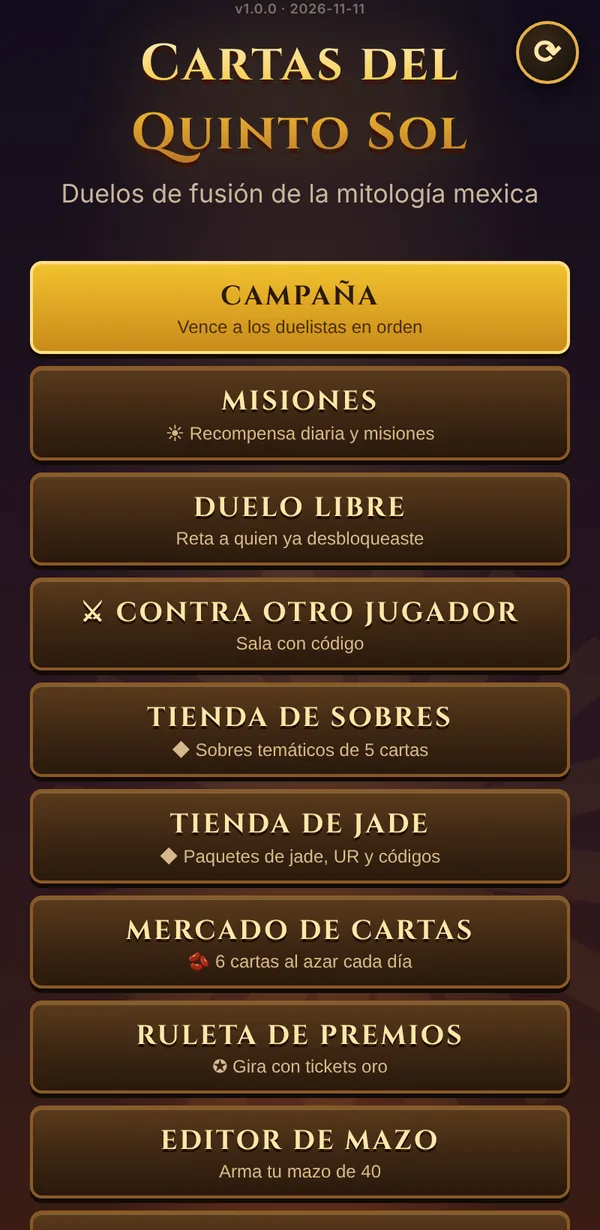
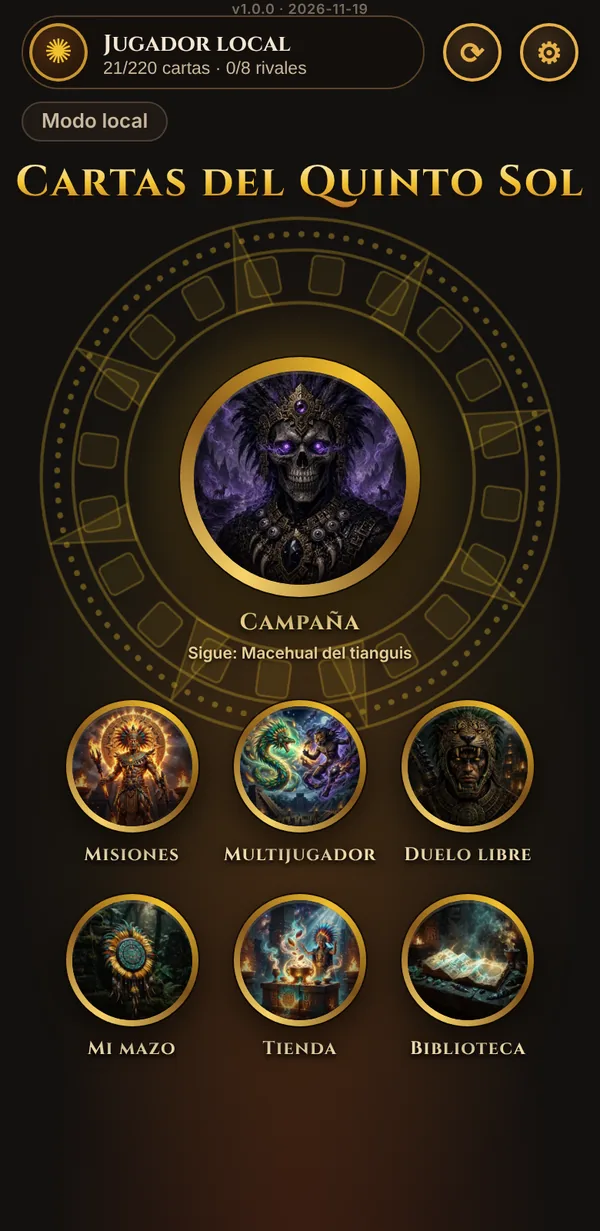
Cartas del Quinto Sol: menú y tienda nuevos; dos notas nuevas en la bitácora
- Cartas del Quinto Sol: captura del menú nuevo (rueda del Quinto Sol) y de
  Opciones, probabilidades de los sobres y garantía de UR en 10 sobres, nuevo
  botín de los duelistas (sin UR, Xólotl como firma de Mictlantecuhtli), música
  de jefe y preguntas sobre la descarga de recursos y guardar la cuenta.
- Bitácora: «Cartas del Quinto Sol estrena menú, tienda con pestañas y descarga
  de recursos» y «Voces de caricatura en Bocón Estudio con texto a voz y la voz
  de Lito», con capturas reales.
- Nota de momentos meme: 25 efectos y 26 controles, guardar efectos es de Pro y
  Bocón ya está abierto.

Claude-Session: https://claude.ai/code/session_01X7LeBtCdBCHYMhX7Pxe9SS

diff --git a/contenido/bitacora/voces-de-caricatura-en-bocon-estudio.md b/contenido/bitacora/voces-de-caricatura-en-bocon-estudio.md
@@ -1,0 +1,93 @@
+---
+titulo: Voces de caricatura en Bocón Estudio con texto a voz y la voz de Lito
+descripcion: Cómo hacer que tus personajes hablen sin grabar, con el texto a voz de Bocón Estudio, y cómo darles voz de caricatura sin que suenen a ardilla, separando el tono del timbre.
+fecha: 2026-11-18
+proyecto: bocon-estudio
+imagen: /img/bocon-estudio/texto-a-voz.webp
+alt: Ventana de texto a voz de Bocón Estudio con el texto «¡Hola! Soy Lito. ¿Ya viste mi video nuevo?», la voz Hombre · México y el efecto Lito (caricatura)
+pie: En «Texto a voz» escribes lo que dice el personaje, eliges la voz y el efecto, y Bocón lo pone en la línea de tiempo con su lip-sync.
+---
+
+Hasta hace poco, para que un personaje hablara en Bocón Estudio había que grabar la voz o subir un audio. Desde la versión 24 hay otra forma: **escribes lo que dice y Bocón genera la voz**. Y desde la versión 23, los efectos de voz pueden hacer voces de caricatura que no suenan a ardilla. En esta guía te contamos cómo usar las dos cosas y cómo combinarlas.
+
+## Texto a voz: tu personaje habla sin micrófono
+
+Abre **Agregar → Voz desde texto…**, o toca «Escribir lo que dice (texto a voz)» en la sección «Voz y lip-sync» del personaje. En la ventana:
+
+1. **Escribe lo que va a decir.**
+2. **Elige el personaje** que lo dice.
+3. **Elige la voz.** Hay seis: Hombre · México, Hombre 2 · México, Mujer · España, Hombre · España, Hombre 3 · España y una voz **Ligera · España** que pesa menos.
+4. **Elige el efecto de voz**, si quieres que no suene a voz de computadora. Más abajo explicamos el de Lito.
+5. **Ajusta la velocidad**, de 70 % a 150 %.
+6. Toca **Escuchar** para oírla y, si te gusta, **Agregar a la línea de tiempo**.
+
+La voz entra como cualquier audio: la boca se mueve sola con el lip-sync y lleva el efecto que elegiste.
+
+### Se genera en tu aparato
+
+La voz no se manda a ningún servidor: se genera ahí mismo, en tu computadora o tu celular. La primera vez se descarga la voz (unos 60 MB) y el motor que la produce (unos 30 MB). Después se quedan guardados y **ya no necesitas internet**, ni siquiera si actualizas la app. Si tu conexión o tu celular son lentos, empieza con la voz Ligera, que pesa 28 MB.
+
+### Cómo escribir para que suene natural
+
+La misma ventana te da dos pistas que hacen mucha diferencia:
+
+- **Usa los signos de apertura.** Con «¿» y «¡» la voz pregunta o se emociona. No es lo mismo «ya viste mi video» que «¿Ya viste mi video?».
+- **Usa renglones y puntos para las pausas.** Cada punto o cada renglón nuevo hace una pausa. Si una frase sale atropellada, pártela en dos.
+
+Otros consejos:
+
+- **Escribe los números con letra** si los lee raro, por ejemplo «veinte» en vez de «20».
+- **Una frase por bloque.** Si cada frase es un bloque aparte, luego puedes moverlas en la línea de tiempo para dejar silencios o meter la respuesta de otro personaje.
+- **Dale a cada personaje su voz.** Con dos personajes, uno puede usar la voz de México y el otro la de España, cada uno con su efecto.
+
+En el plan gratis cada texto puede tener hasta 200 letras, que alcanzan para dos o tres frases. Con Bocón Pro no hay límite.
+
+## Tono y timbre: por qué las voces agudas suenan a ardilla
+
+Cuando subes el tono de una grabación de la forma clásica, no solo sube la nota: también se encoge el «tamaño» de la voz. Por eso suena a ardilla o a disco acelerado.
+
+Bocón ahora separa las dos cosas, y así lo explica en la ventana de Efecto de voz:
+
+- **Tono** es qué tan aguda suena la voz, la nota.
+- **Timbre** es qué tan chica suena la voz, como si saliera de una garganta más pequeña o más grande.
+
+Con los dos por separado puedes hacer una voz aguda que todavía suena a persona, o una voz de personaje pequeño que no es más aguda. El tono ahora llega a 24 semitonos hacia arriba o hacia abajo, que son dos octavas.
+
+![Ventana de Efecto de voz de Bocón con el efecto Lito (caricatura) elegido: tono automático en 300 Hz, timbre en automático y entonación en 115 %](/img/bocon-estudio/voz-lito.webp)
+
+## La voz de Lito
+
+El efecto **Lito (caricatura)** está hecho a partir de la voz de Lito el ajolote. Usa tres perillas nuevas:
+
+- **Tono automático en 300 Hz.** En vez de subir la voz un número fijo de notas, la lleva a esa altura, así que funciona igual con voz de hombre, de mujer o de niño.
+- **Timbre automático**, que acomoda el tamaño de la voz según cuánto subió el tono.
+- **Entonación al 115 %**, un poco más expresiva que la original, como en las caricaturas.
+
+Para probarlo, selecciona tu personaje, abre **Agregar → Efecto de voz…** y toca «Lito (caricatura)». Con **Escuchar** oyes los primeros 6 segundos de su voz con el efecto puesto, y con **Original** la comparas sin efecto. El lip-sync no cambia con el efecto.
+
+## Ideas para empezar
+
+Estas combinaciones son buenos puntos de partida. Escúchalas y ajústalas a tu gusto:
+
+| Personaje | Prueba con |
+|---|---|
+| Mascota o personaje tierno | Lito (caricatura) |
+| Niño o personaje pequeño | Timbre más arriba, tono casi igual |
+| Villano | Tono y timbre más abajo, con un poco de voz doble (grave) |
+| Narrador | Anunciador de radio, o Megáfono para avisos |
+| Llamada por teléfono | Radio o teléfono |
+| Fantasma o escena de miedo | Fantasma, Eco o Cueva |
+| Robot o videojuego | Robot o Videojuego (8 bits) |
+
+El editor tiene 26 controles. Si armas una voz que te guste, con Bocón Pro puedes guardarla en tus efectos con su nombre y usarla en cualquier proyecto.
+
+## Un ejemplo de principio a fin
+
+1. Pon dos personajes en la escena, por ejemplo el ajolote y el gato.
+2. En **Texto a voz**, escribe la primera frase del ajolote con la voz Hombre · México y el efecto Lito (caricatura).
+3. Escribe la respuesta del gato con otra voz, como Mujer · España, y un efecto distinto.
+4. Mueve los bloques en la línea de tiempo para que cada uno conteste al otro.
+5. Agrega gestos y, en el remate, un momento meme con la tecla **E**. Los explicamos en la nota sobre [momentos meme y efectos de voz](/bitacora/momentos-meme-y-efectos-de-voz-en-bocon-estudio).
+6. Exporta en formato 9:16 para TikTok o Reels.
+
+Si todavía no tienes Bocón instalado, sigue la [guía para instalarlo en PC, Android o iPhone](/bitacora/instala-bocon-estudio-en-pc-android-y-iphone).

diff --git a/contenido/bitacora/cartas-del-quinto-sol-estrena-menu-y-tienda.md b/contenido/bitacora/cartas-del-quinto-sol-estrena-menu-y-tienda.md
@@ -1,0 +1,74 @@
+---
+titulo: Cartas del Quinto Sol estrena menú, tienda con pestañas y descarga de recursos
+descripcion: Lo nuevo en Cartas del Quinto Sol. La rueda del Quinto Sol, la tienda con sobres, mercado, ruleta y jade en un solo lugar, la descarga de recursos para jugar con mala señal, la música de jefe y el nuevo botín de los duelistas.
+fecha: 2026-11-18
+proyecto: cartas-del-quinto-sol
+imagen: /img/cartas-del-quinto-sol/novedades.webp
+alt: El menú nuevo de Cartas del Quinto Sol con la rueda del Quinto Sol y la pantalla de Opciones con la sección Descargas
+pie: A la izquierda, el menú nuevo con la Campaña al centro. A la derecha, Opciones, con el sonido y la descarga de recursos.
+---
+
+Cartas del Quinto Sol se ve distinto desde que lo abres. La actualización de noviembre cambió el menú, juntó todas las tiendas en una, agregó una pantalla de opciones y cambió lo que sueltan los duelistas. Aquí te contamos qué cambió y cómo aprovecharlo.
+
+## La rueda del Quinto Sol
+
+El menú ahora es una rueda inspirada en el calendario. Al centro está la **Campaña**, con el retrato del próximo rival y su nombre («Sigue: Macehual del tianguis»), así que con un toque continúas donde te quedaste. Abajo hay seis medallones:
+
+- **Misiones**, con las del día y las de la semana.
+- **Multijugador**, para retar a alguien con un código de sala.
+- **Duelo libre**, contra los duelistas que ya venciste.
+- **Mi mazo**, para armar y ordenar tu mazo de 40 cartas.
+- **Tienda**, con todo lo que se compra.
+- **Biblioteca**, con tu colección.
+
+Arriba queda una barra con tu perfil, cuántas cartas tienes de las 220, cuántos de los 8 rivales llevas vencidos, el botón ⟳ para buscar actualizaciones y el ⚙ de Opciones. Si tocas tu perfil, se abre tu récord de victorias y derrotas, tu colección, y ahí puedes cambiar tu nombre.
+
+Los retratos de los duelistas ahora pesan mucho menos, de alrededor de 1 MB a unos 70 KB cada uno, así que el menú abre más rápido con datos móviles.
+
+## Una sola tienda, con pestañas
+
+Antes los sobres, el mercado, la ruleta y la tienda de jade estaban en pantallas separadas. Ahora están juntos en la **Tienda**, cada uno en su pestaña: **Sobres**, **Mercado**, **Ruleta** y **Jade**.
+
+En la pestaña de sobres eliges uno de los seis, de 150 de jade cada uno, y abajo ves todo lo que puede salir, ordenado por rareza, con las cartas que ya tienes y las que te faltan. También ves la probabilidad de cada rareza **por carta**:
+
+| Rareza | Por carta |
+|---|---|
+| Normal (N) | 60 % |
+| Rara (R) | 28 % |
+| Súper rara (SR) | 10 % |
+| Ultra rara (UR) | 2 % |
+
+Un sobre trae 5 cartas, así que la probabilidad de que un sobre traiga al menos una ultra rara es de cerca de 10 %. Para que nadie se quede sin ninguna, hay una **garantía**: si abres 10 sobres seguidos sin ultra rara, el décimo trae una segura. Una barra te dice cuántos sobres faltan.
+
+**Consejo:** si buscas una ultra rara en particular, fíjate en qué sobre viene antes de abrirlo. Las ultra raras del Sobre del Quinto Sol, por ejemplo, son seis: Huitzilopochtli, Tonatiuh, Tezcatlipoca, Xiuhtecuhtli, Coyolxauhqui y Xipe Tótec.
+
+## Opciones y descarga de recursos
+
+El engrane ⚙ abre la nueva pantalla de **Opciones**:
+
+- **Sonido:** enciende o apaga el sonido del juego y ajusta por separado el volumen de los efectos y el de la música.
+- **Descargas:** guarda en tu teléfono el arte de las 220 cartas, los retratos de los duelistas, los sonidos y la música, unos **22 MB** en total.
+- **Juego:** vuelve a ver el tutorial en tu siguiente duelo de campaña, instala el juego como app y busca actualizaciones.
+- **Cuenta:** si juegas como invitado, aquí guardas tu cuenta con tu correo.
+
+La descarga es lo más útil si juegas con datos o con mala señal. Sin ella, el arte de cada carta se baja cuando la ves por primera vez, y con una conexión lenta las cartas pueden quedarse en blanco un rato. Con los recursos descargados el juego abre rápido y todo se ve desde el principio.
+
+Se baja una sola vez: cuando salen cartas nuevas, solo baja esas. Si la detienes a la mitad, lo que ya se bajó se queda guardado. Y si un día necesitas espacio, el botón «Borrar descargas» lo quita; el juego lo volverá a bajar poco a poco mientras juegas. Si tu plan de datos es limitado, haz la descarga con Wi-Fi.
+
+## No pierdas tus cartas
+
+Si empezaste sin cuenta, tu progreso se guarda solo en ese navegador. Si cambias de teléfono o borras los datos del navegador, lo pierdes. Para evitarlo, entra a **Opciones → Cuenta** y toca **Guardar mi cuenta** con tu correo. Así puedes entrar con tus cartas desde otro aparato.
+
+## Música de jefe y un botín más parejo
+
+Los dos jefes de la campaña, **Mictlantecuhtli**, al final del capítulo 1, y **Tlamacazqui**, al final de La Guerra Florida, ahora tienen su propia **música de jefe**.
+
+También cambió lo que sueltan los duelistas al vencerlos:
+
+- **Ningún duelista suelta ultra raras.** Esas salen de los sobres, con la garantía de 10.
+- **Los cinco duelistas del capítulo 1** pueden soltar cualquier carta del juego base que no sea ultra rara, además de las de su mazo, con las mismas probabilidades que los del capítulo 2: las normales salen el doble de seguido que las raras, y las raras el triple que las súper raras.
+- **La carta firma de Mictlantecuhtli** es Xólotl, una súper rara de 3,000 de ataque. Te la llevas la primera vez que le ganas.
+
+En la práctica, repetir duelos contra los primeros rivales en **Duelo libre** ahora sirve para completar la colección base, no solo para conseguir las cartas de su mazo.
+
+Si apenas vas empezando, lee nuestra [guía para empezar en Cartas del Quinto Sol](/bitacora/guia-para-empezar-en-cartas-del-quinto-sol), con consejos para las fusiones, el Reloj Solar y el signo del día. Todo lo demás del juego está en su [página](/proyectos/cartas-del-quinto-sol).

diff --git a/contenido/proyectos/cartas-del-quinto-sol.md b/contenido/proyectos/cartas-del-quinto-sol.md
@@ -40,7 +40,9 @@ capturas:
   - imagen: /img/cartas-del-quinto-sol/duelo.webp
     texto: Un duelo en la PC. Las cartas numeradas en la mano forman una cadena de fusión; a la izquierda se ve la carta elegida y al centro el Reloj Solar y el signo del día.
   - imagen: /img/cartas-del-quinto-sol/menu.webp
-    texto: El menú principal, con campaña, misiones, duelo libre, duelos contra otro jugador, tiendas, mercado y ruleta.
+    texto: El menú nuevo. La rueda del Quinto Sol tiene la Campaña al centro y seis medallones abajo, Misiones, Multijugador, Duelo libre, Mi mazo, Tienda y Biblioteca.
+  - imagen: /img/cartas-del-quinto-sol/opciones.webp
+    texto: Opciones. Volumen de efectos y música, la descarga de recursos para que las cartas no se queden en blanco con mala señal, el tutorial y el botón para instalar.
   - imagen: /img/cartas-del-quinto-sol/campana.webp
     texto: La campaña. Cada duelista se desbloquea al vencer al anterior y tiene su carta firma.
   - imagen: /img/cartas-del-quinto-sol/mazo.webp
@@ -60,6 +62,10 @@ preguntas:
     r: Puedes tener hasta 3 copias de cada carta. Algunas cartas ascienden si juntas tres copias, y cuando ya tienes tres, las copias nuevas se convierten en cacao y jade.
   - p: ¿Por qué se llama Cartas del Quinto Sol?
     r: Según la tradición mexica, el mundo ha pasado por cinco soles o eras, y vivimos en la quinta. El juego toma de ahí su nombre y su reloj de duelo.
+  - p: ¿Qué hago si las cartas se ven en blanco cuando tengo mala señal?
+    r: Entra a Opciones (el engrane del menú) y toca Descargar en la sección Descargas. Se guardan en tu teléfono el arte de las 220 cartas, los retratos, los sonidos y la música, unos 22 MB. Se baja una sola vez y, si salen cartas nuevas, solo baja esas. Usa Wi-Fi si tu plan de datos es limitado.
+  - p: ¿Pierdo mis cartas si cambio de teléfono?
+    r: Si juegas como invitado, tu progreso se queda en ese teléfono. Para no perderlo, en Opciones guarda tu cuenta con tu correo; así entras con tus cartas desde otro aparato.
   - p: ¿Cuándo sale en Google Play y en Steam?
     r: Primero queremos terminar más duelistas y ampliar la colección de cartas. Lo anunciaremos aquí y en nuestras redes.
 historial:
@@ -69,6 +75,8 @@ historial:
     texto: El juego ya se descarga como app para Android, con música, sonidos y animaciones nuevas.
   - fecha: 2026-11-06
     texto: Ya se juega La Guerra Florida, el capítulo 2 de la campaña, con 120 cartas, tres duelistas y tres sobres nuevos. También hay misiones del día y de la semana y recompensa por entrar siete días seguidos.
+  - fecha: 2026-11-13
+    texto: Menú nuevo con la rueda del Quinto Sol, tienda con pestañas, opciones de sonido, descarga de recursos y música de jefe contra Mictlantecuhtli y Tlamacazqui. El botín de los duelistas se reparte mejor y ninguno suelta ultra raras.
 esquema:
   tipo: VideoGame
   genero: Juego de cartas coleccionables
@@ -151,7 +159,9 @@ Vale la pena voltear a ver el signo antes de tu primer turno: un mazo de jaguare
 
 ## La campaña
 
-En la campaña vences a los duelistas en orden. Cada uno tiene su mazo temático, su lugar y su **carta firma**: al ganarle te llevas una carta de su mazo, y la primera vez también su carta firma.
+En la campaña vences a los duelistas en orden. Cada uno tiene su mazo temático, su lugar y su **carta firma**. Al ganarle te llevas una carta de su botín, que incluye cartas de su mazo y otras del juego; la primera vez también te da su carta firma, como Xólotl en el caso de Mictlantecuhtli. Ningún duelista suelta ultra raras, y las normales salen más seguido que las raras y las súper raras.
+
+Los últimos rivales de cada capítulo, Mictlantecuhtli y Tlamacazqui, tienen su propia **música de jefe**.
 
 **Capítulo 1**
 
@@ -179,9 +189,11 @@ Las cartas no se quedan igual para siempre:
 
 Hay dos monedas: el **cacao**, que se gana jugando, y el **jade**, la moneda valiosa. Las cartas nuevas salen de:
 
-- **Seis sobres temáticos** de 5 cartas: del Quinto Sol, de Tlalocan y del Mictlán, y los de La Guerra Florida: Guerreros Jaguar, Guerreros Águila y Templo Mayor.
+- **Seis sobres temáticos** de 5 cartas, que cuestan 150 de jade: del Quinto Sol, de Tlalocan y del Mictlán, y los de La Guerra Florida: Guerreros Jaguar, Guerreros Águila y Templo Mayor. Cada carta tiene 60 % de probabilidad de salir normal, 28 % rara, 10 % súper rara y 2 % ultra rara, y si abres 10 sobres seguidos sin una ultra rara, el décimo trae una segura.
 - El **mercado de cartas**, con 6 cartas al azar cada día.
 - La **ruleta de premios**, que se gira con tickets.
+
+Los sobres, el mercado, la ruleta y la tienda de jade están juntos en la **Tienda**, cada uno en su pestaña.
 - Las **misiones**: una recompensa por entrar siete días seguidos, misiones del día como «Haz 5 fusiones» o «Gana un duelo de noche», y misiones de la semana como «Gana 3 duelos en 12 turnos o menos».
 
 ## Duelos contra otro jugador

diff --git a/contenido/bitacora/momentos-meme-y-efectos-de-voz-en-bocon-estudio.md b/contenido/bitacora/momentos-meme-y-efectos-de-voz-en-bocon-estudio.md
@@ -49,7 +49,7 @@ Si repites un recurso en tus videos, crea el tuyo con **Crear mi momento**: elig
 
 Ahora cada personaje puede tener su propio **efecto de voz**. Selecciona al personaje y, en su panel, elige uno en «Efecto de voz». Se aplica a todo lo que dice ese personaje, y con **▶ Probar** lo escuchas antes de reproducir la escena.
 
-Hay 24 listos. Algunos que funcionan muy bien:
+Hay 25 listos, incluida la voz de **Lito (caricatura)**. Algunos que funcionan muy bien:
 
 - **Ardilla** o **Globo de helio** para personajes pequeños o tiernos.
 - **Gigante**, **Monstruo** o **Demonio** para el villano.
@@ -58,7 +58,7 @@ Hay 24 listos. Algunos que funcionan muy bien:
 - **Fantasma**, **Eco** o **Cueva** para escenas de miedo.
 - **Bajo el agua** o **Cinta vieja** para un recuerdo o un sueño.
 
-Una ventaja de esto es que puedes grabar todas las voces tú mismo y que cada personaje suene distinto. Si quieres afinar un efecto, abre **Efecto de voz…** desde el menú Agregar: tiene 23 controles, como tono, graves, agudos, distorsión, vibrato, eco y tamaño de sala. Cuando te guste, tócale «Guardar en mis efectos» y lo tendrás en cualquier proyecto.
+Una ventaja de esto es que puedes grabar todas las voces tú mismo y que cada personaje suene distinto. Si quieres afinar un efecto, abre **Efecto de voz…** desde el menú Agregar: tiene 26 controles, como tono, timbre, graves, agudos, distorsión, vibrato, eco y tamaño de sala. Con Bocón Pro, cuando te guste, tócale «Guardar en mis efectos» y lo tendrás en cualquier proyecto. Para hacer voces de caricatura, lee [cómo usar el texto a voz y la voz de Lito](/bitacora/voces-de-caricatura-en-bocon-estudio).
 
 ## Gestos propios con adornos
 
@@ -91,4 +91,4 @@ Para juntar todo, así armamos un video corto de reacción:
 
 Si es la primera vez que usas tus propios dibujos, empieza por la [guía para preparar tu personaje](/bitacora/como-preparar-tu-personaje-para-bocon-estudio). Ahora la marioneta también puede tener brazos y pies: si subes un solo dibujo con los brazos separados del cuerpo y los pies abiertos, Bocón los separa para que se muevan.
 
-Bocón Estudio está en su última etapa de pruebas y es gratis. Puedes ver todo lo que hace en su [página](/proyectos/bocon-estudio).
+Bocón Estudio ya está abierto para todos, con plan gratis y Bocón Pro. Puedes ver todo lo que hace en su [página](/proyectos/bocon-estudio) y cómo instalarlo en la [guía de instalación](/bitacora/instala-bocon-estudio-en-pc-android-y-iphone).

diff --git a/contenido/bitacora/guia-para-empezar-en-cartas-del-quinto-sol.md b/contenido/bitacora/guia-para-empezar-en-cartas-del-quinto-sol.md
@@ -80,7 +80,7 @@ Otras formas de conseguir cartas sin gastar:
 - **La recompensa por entrar siete días seguidos.**
 - **El mercado de cartas**, que cambia 6 cartas cada día.
 - **La ruleta de premios**, que se gira con tickets.
-- **La campaña**: cada victoria te da una carta del mazo del duelista, y la primera vez también su carta firma.
+- **La campaña**: cada victoria te da una carta del botín del duelista, y la primera vez también su carta firma.
 
 Si ya tienes 3 copias de una carta, las nuevas se convierten en cacao y jade, así que las repetidas nunca se desperdician.
 
